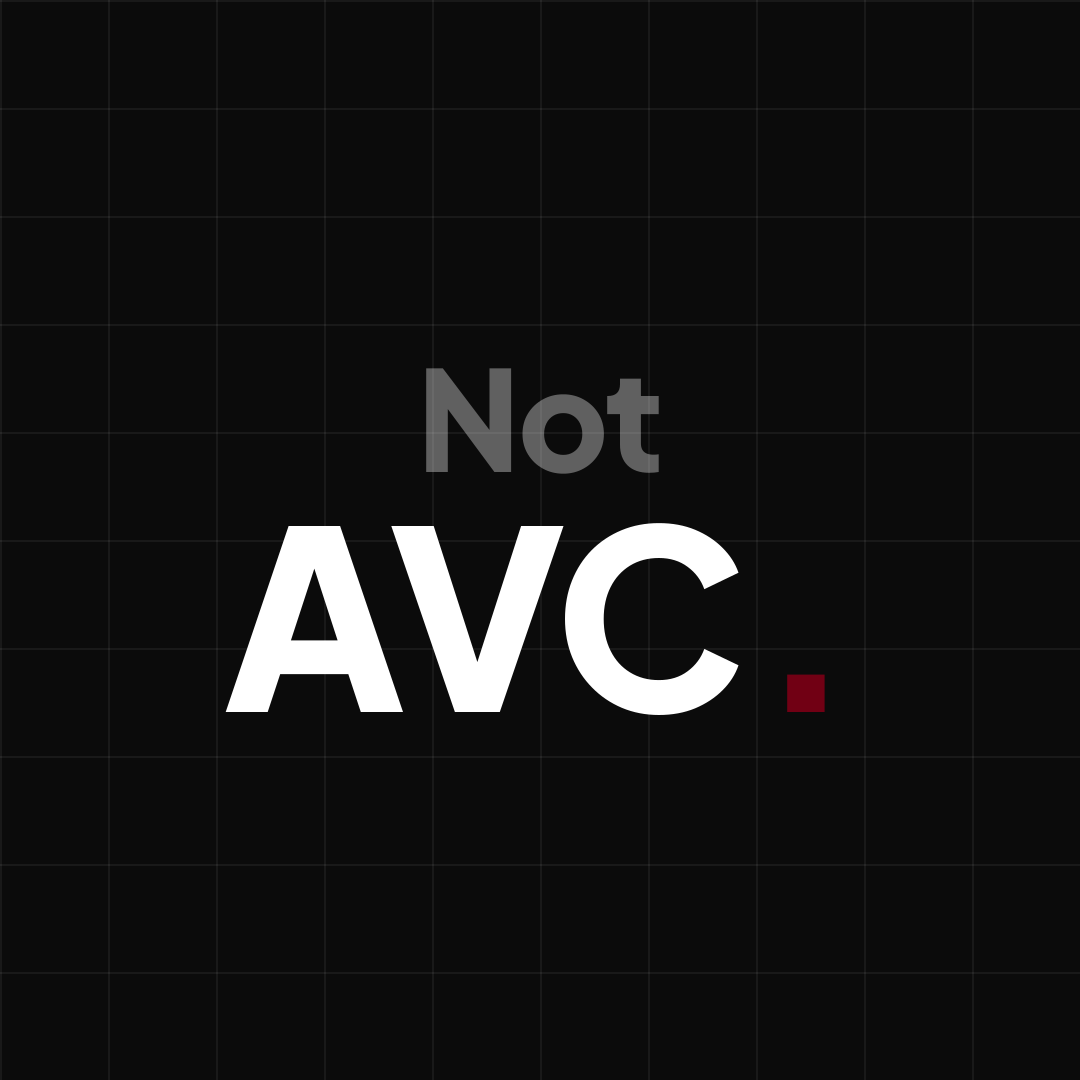
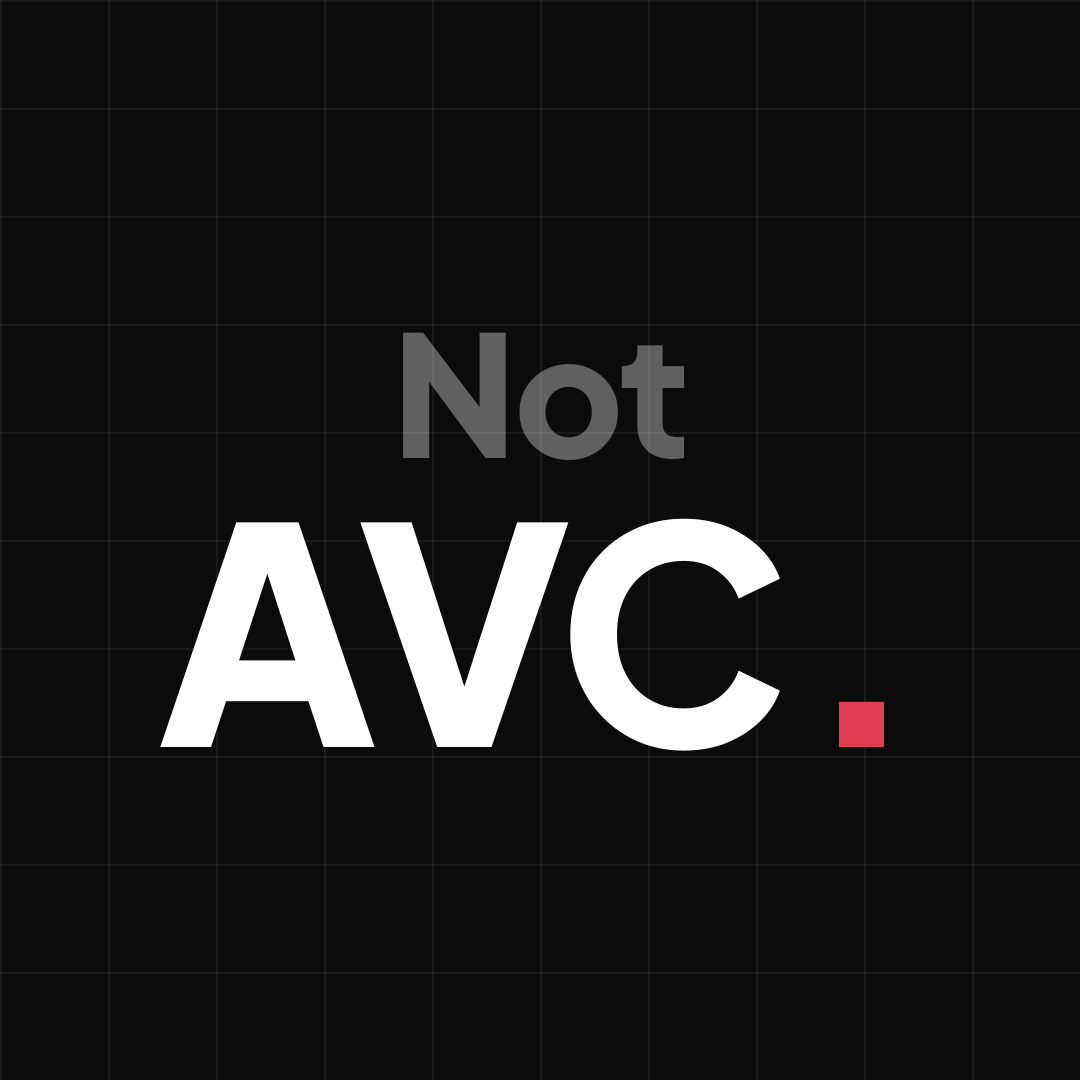
Export the LinkedIn asset set
Four PNGs at the sizes LinkedIn actually wants, plus a note on where each
one goes and why the layout is right-aligned rather than centred.

diff --git a/brand/linkedin/README.md b/brand/linkedin/README.md
@@ -1,0 +1,25 @@
+# LinkedIn assets
+
+Rendered from `site/app/api/og/brand/route.tsx`, so they use the same fonts
+and tokens as the site and cannot drift from it. To re-export after a copy
+change, refetch:
+
+    /api/og/brand?kind=logo     400 x 400    company logo
+    /api/og/brand?kind=cover    1128 x 191   company page cover
+    /api/og/brand?kind=banner   1584 x 396   personal profile banner
+    /api/og/brand?kind=avatar   1080 x 1080  square avatar, any platform
+
+## Where each one goes
+
+| File | Upload to |
+|---|---|
+| `notavc-logo.png` | Company page → Edit page → Page logo |
+| `notavc-cover.png` | Company page → Edit page → Cover image |
+| `notavc-banner.png` | Personal profile → background/banner image |
+| `notavc-avatar.png` | Instagram, X, anywhere square |
+
+## Why the layout is right-aligned
+
+LinkedIn overlays the profile photo (personal) or the page logo (company)
+across the bottom-left of the cover image. Anything placed there is covered.
+The lockup sits right so it survives that overlap and every responsive crop.
